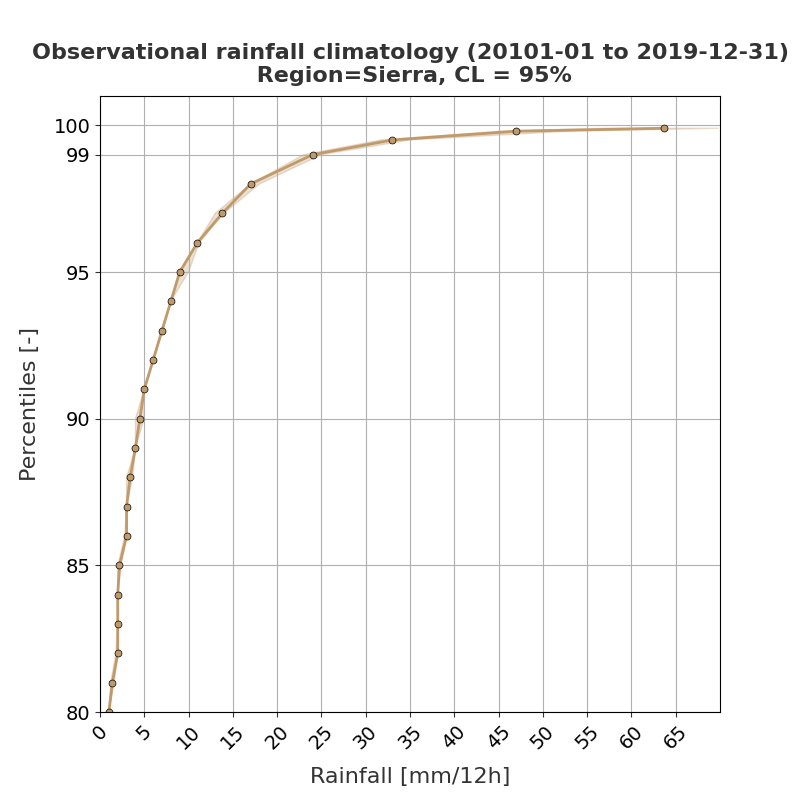
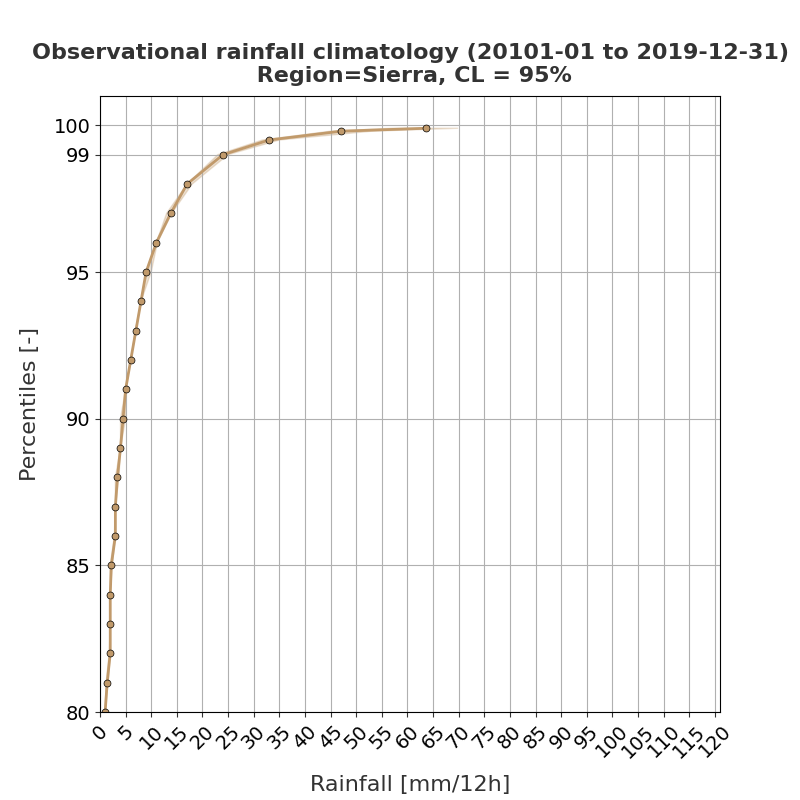
Improved plots from rainfall observations.

Changed region(s): [[0.125, 0.1562, 0.875, 0.9062], [0.1562, 0.9062, 0.9062, 1.0]]

diff --git a/Scripts/Processed/16_Plot_Obs_Rain_Climate.py b/Scripts/Processed/16_Plot_Obs_Rain_Climate.py
@@ -59,9 +59,9 @@ for ind_Region in range(len(RegionName_list)):
       ax.set_title("Observational rainfall climatology (" + DateS.strftime("%Y%-m-%d") + " to " + DateF.strftime("%Y-%m-%d") + ")\n Region=" + RegionName + ", CL = " + str(CL) + "%", fontsize=16, pad=10, weight="bold", color="#333333")
       ax.set_xlabel("Rainfall [mm/" + str(Acc) + "h]", fontsize=16, labelpad=10, color="#333333")
       ax.set_ylabel("Percentiles [-]", fontsize=16, labelpad=10, color="#333333")
-      ax.set_xlim([0,int(CI_upper[-1])+1])
+      ax.set_xlim([0,121])
       ax.set_ylim([80,101])
-      ax.set_xticks(range(0, int(CI_upper[-1])+1, 5))
+      ax.set_xticks(range(0, 121, 5))
       ax.set_yticks((np.concatenate((np.arange(80,100,5), np.array([99,100])))).tolist())
       ax.xaxis.set_tick_params(labelsize=14, rotation=45, color="#333333")
       ax.yaxis.set_tick_params(labelsize=14, color="#333333")
